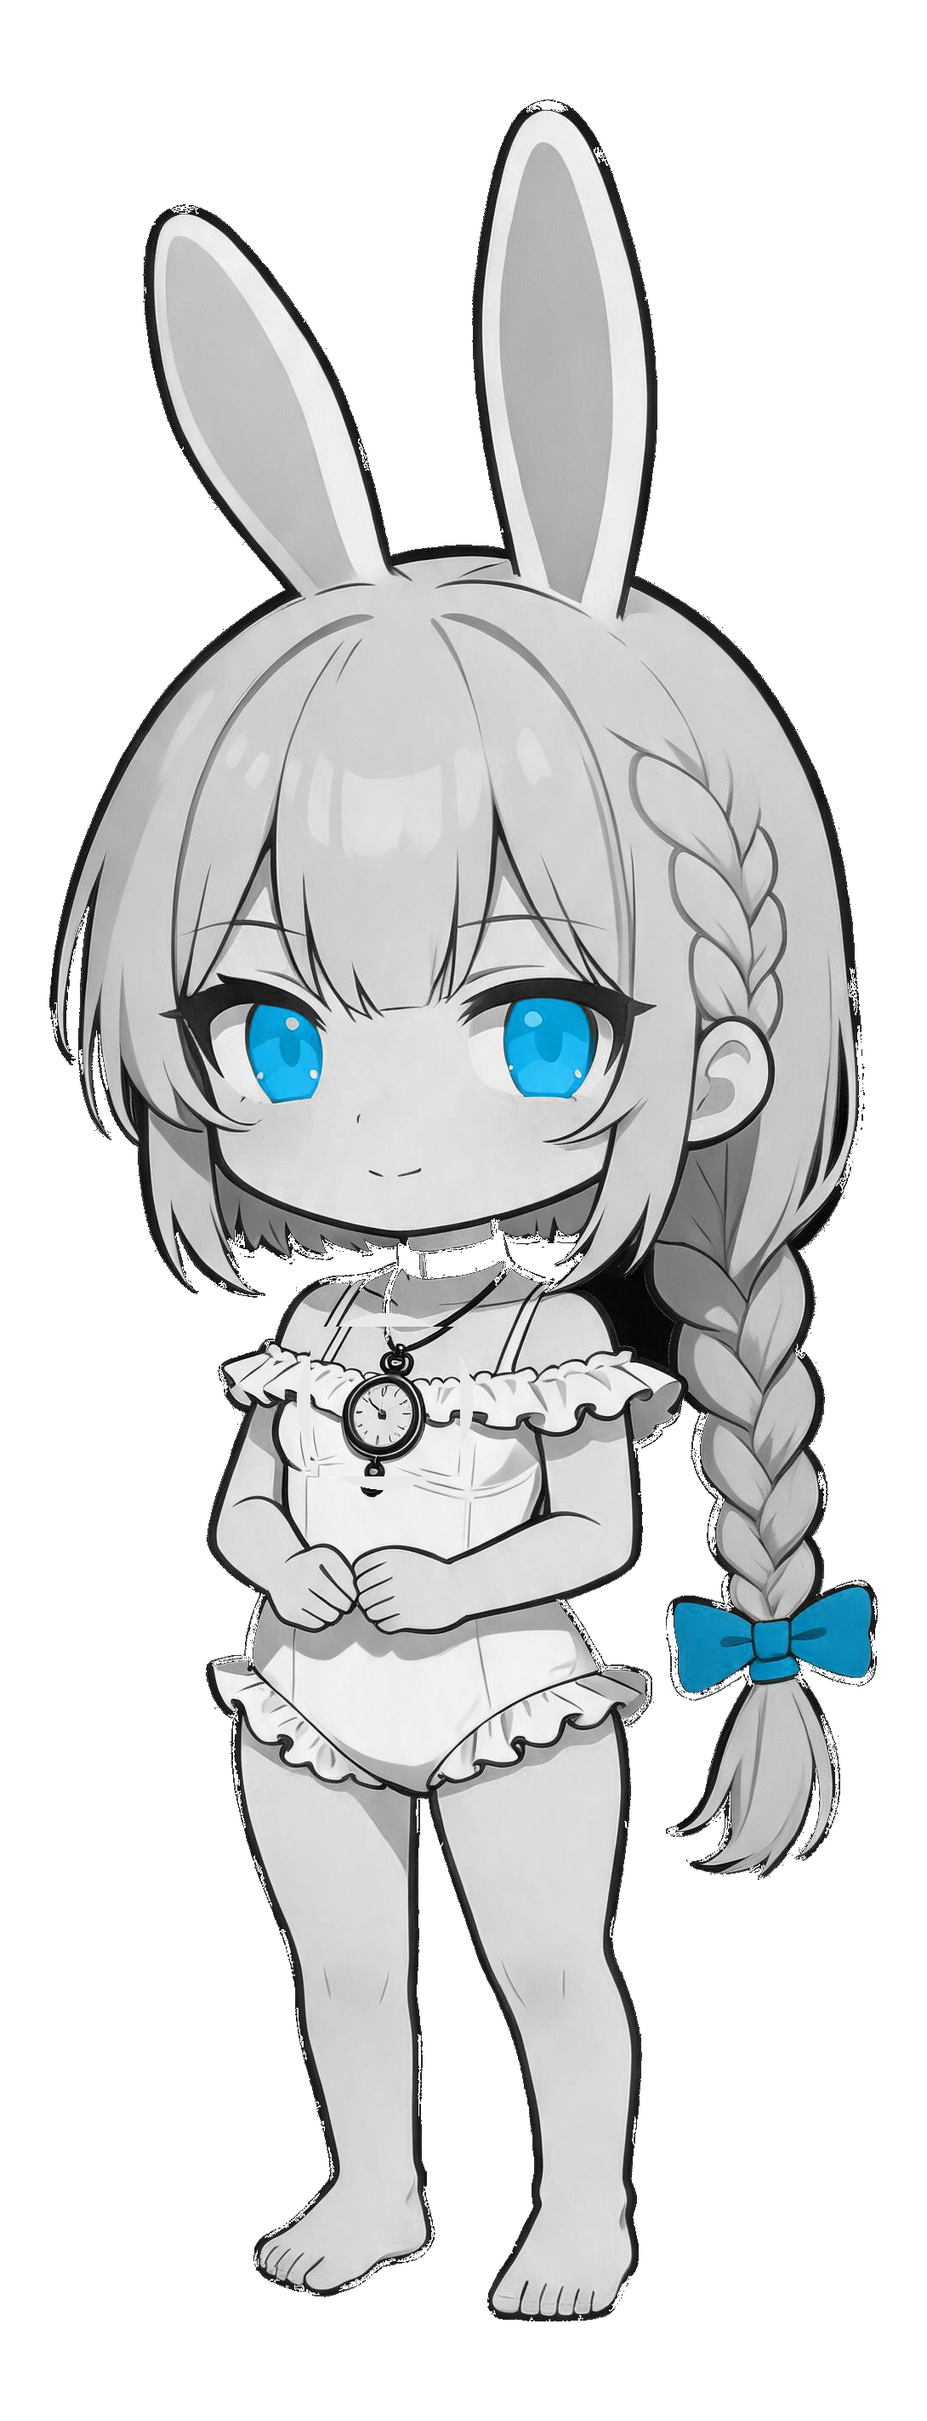
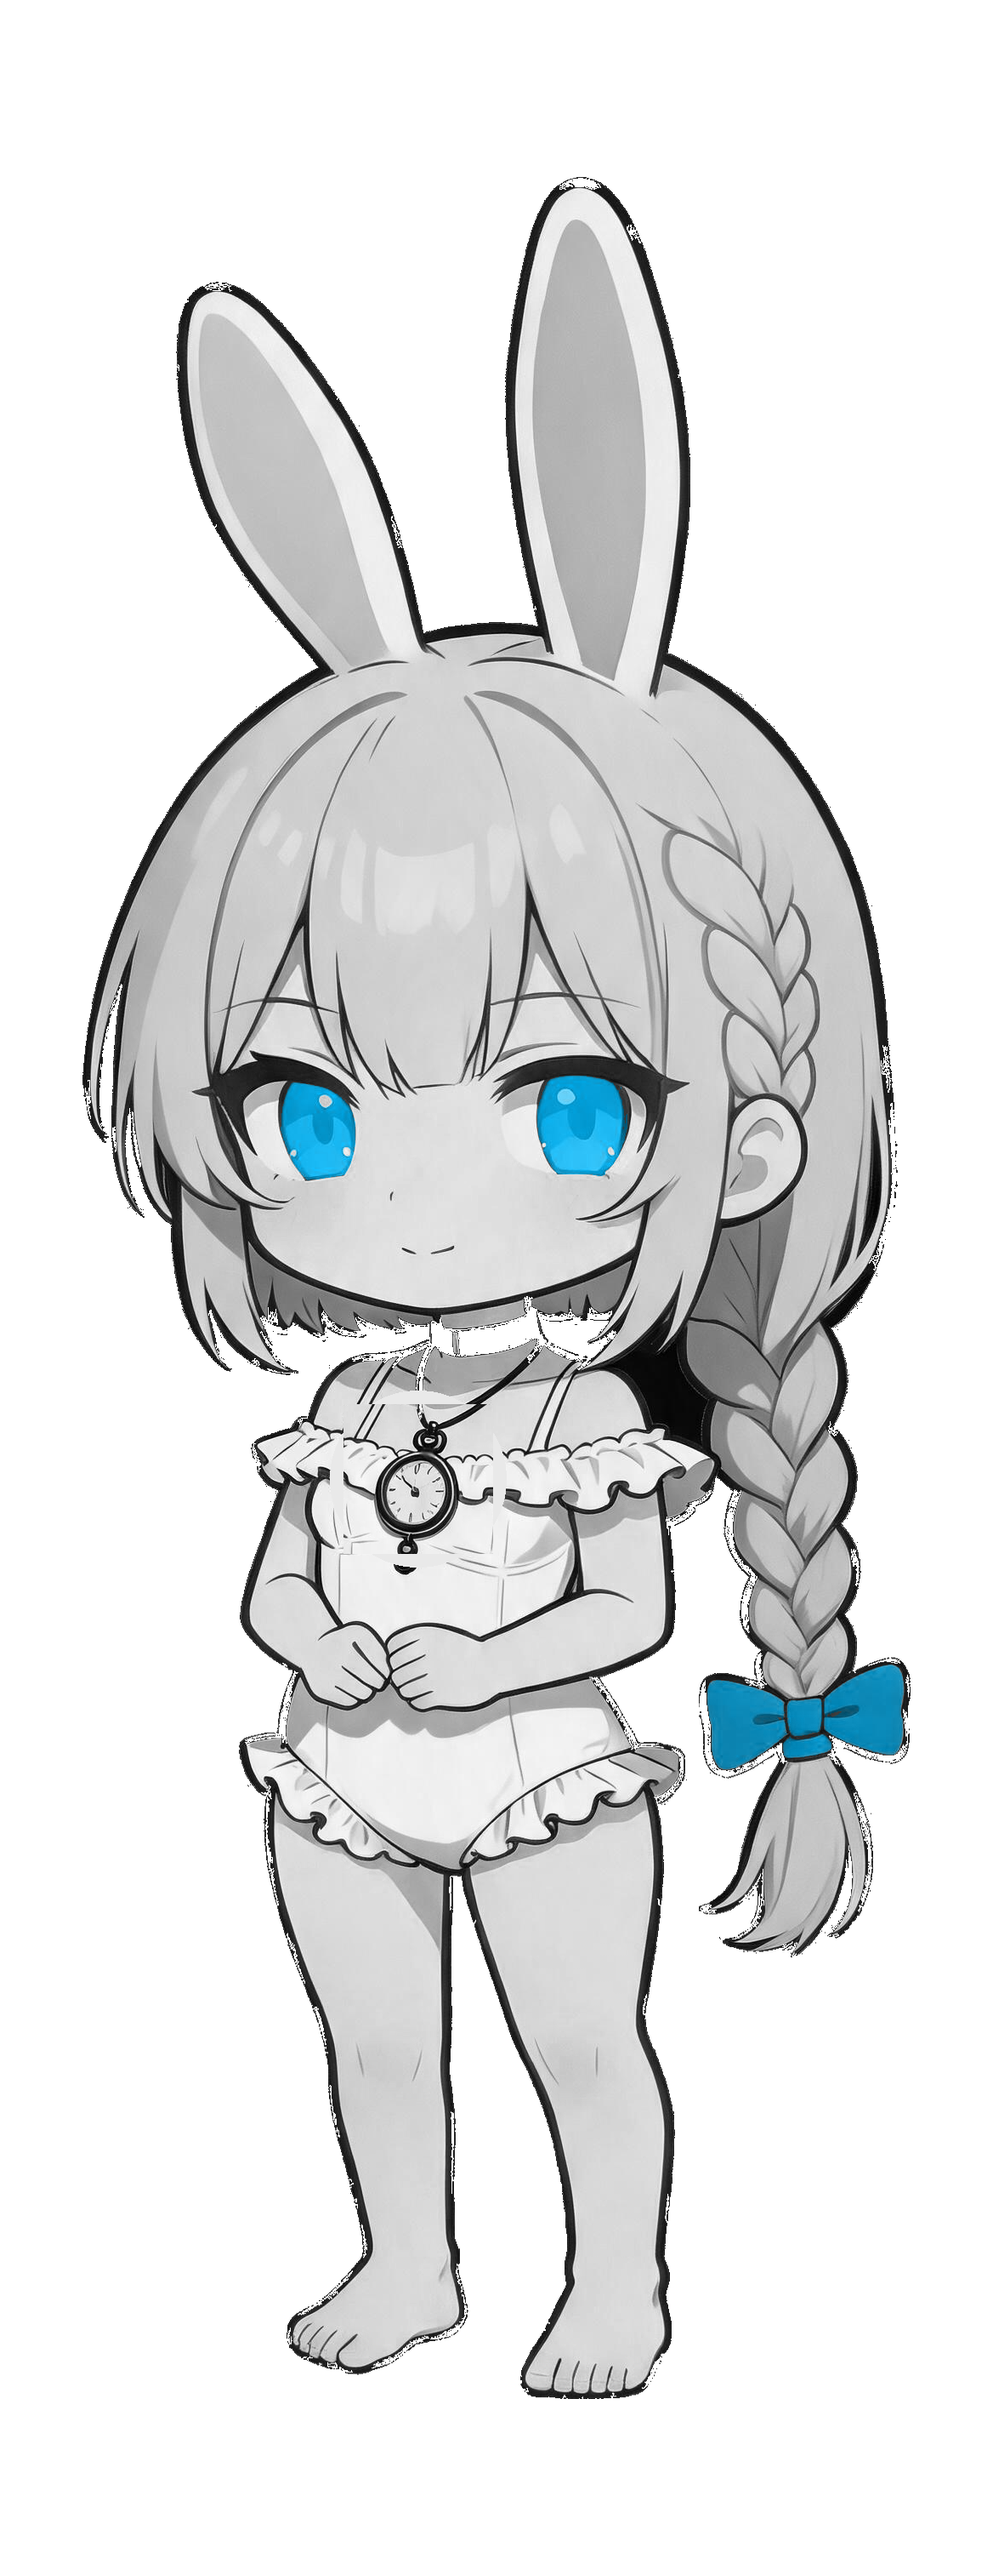
art: 诺登待机立绘重新补边距 + 清除皮肤彩色污染；地图立绘加缓存版本号；新增 nordenscene 调试参数

Changed region(s): [[0.0312, 0.0309, 0.967, 0.9589]]

diff --git a/src/main.js b/src/main.js
@@ -238,6 +238,15 @@ requestAnimationFrame(frameLoop);
     for (let i = 0; i < ff; i++) { update(STEP); Input.tick(); }
     return;
   }
+  // 调试：?nordenscene=1 直接进诺登走位段（检查待机立绘有没有被裁）
+  if (params.get('nordenscene') === '1') {
+    Game.mode = 'walk';
+    startWalk({ cam: true, target: { kind: 'norden', x: 1180, label: '诺登' }, next: 'wake_talk' });
+    if (Game.player) Game.player.x = 1000;
+    const nff = parseInt(params.get('ff') || '0', 10);
+    for (let i = 0; i < nff; i++) { update(STEP); Input.tick(); }
+    return;
+  }
   // 调试：?mabelscene=1 直接进「走向梅贝尔」的走位段
   if (params.get('mabelscene') === '1') {
     Game.mode = 'walk';

diff --git a/src/render.js b/src/render.js
@@ -943,11 +943,13 @@ function drawWalkProps(ctx) {
 //   约定文件 art/char/<id>_idle.png —— 单张 PNG、脚底在画布底部、高度约 300px
 //   缺失时退回对话立绘（art/portrait/<id>.png）临时顶替，不会崩
 const CHAR_IDLE = {};
+// 换图后浏览器可能用旧缓存，带个版本号强制刷新
+const ART_VER = '?v=7';
 function getCharIdle(id) {
   if (!CHAR_IDLE[id]) {
     if (typeof Image === 'undefined') return null;
     CHAR_IDLE[id] = new Image();
-    CHAR_IDLE[id].src = 'art/char/' + id + '_idle.png';
+    CHAR_IDLE[id].src = 'art/char/' + id + '_idle.png' + ART_VER;
   }
   const img = CHAR_IDLE[id];
   return (img.complete && img.naturalWidth > 0) ? img : null;
